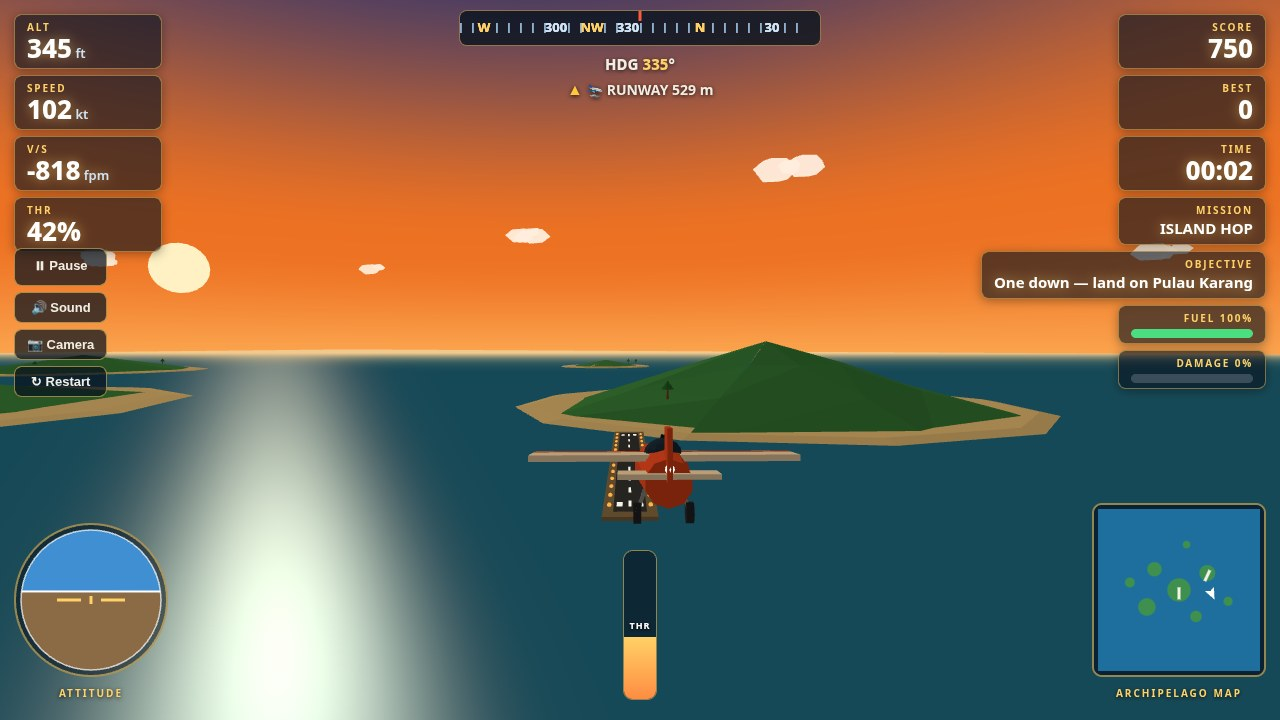
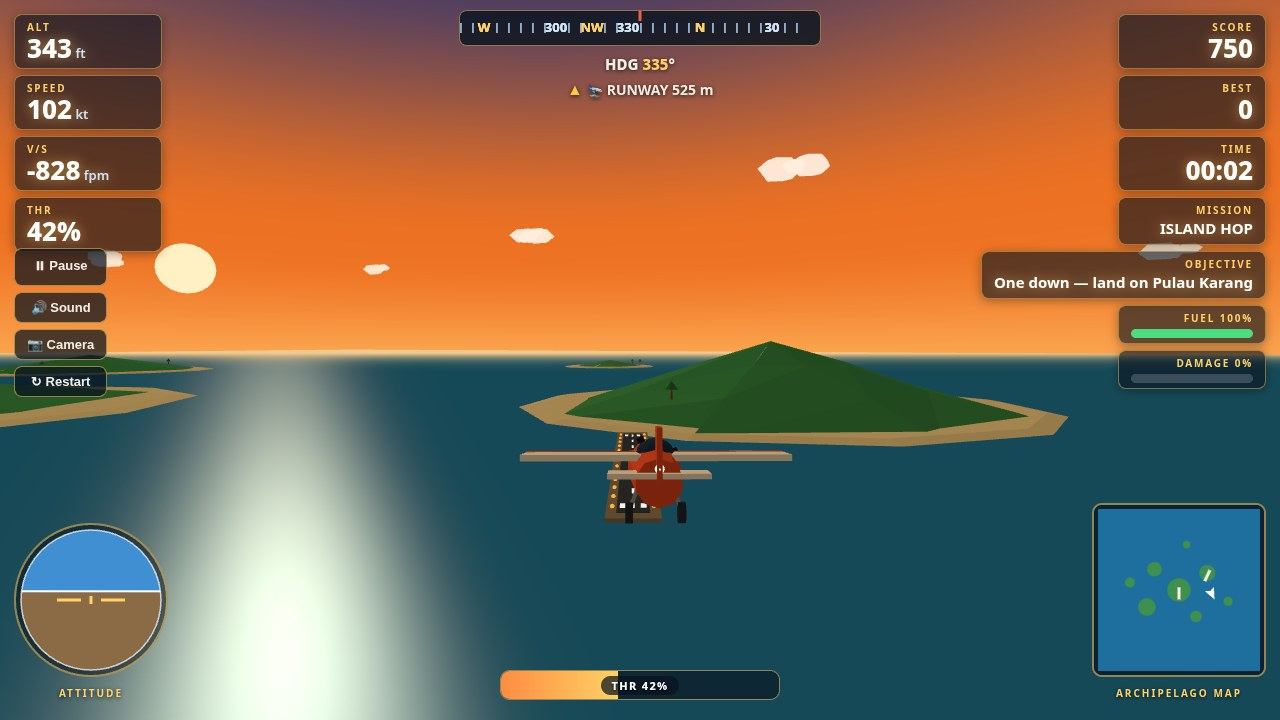
Landscape throttle bar: horizontal THR slider with live percent pill, drag axis switched to X

diff --git a/game/style.css b/game/style.css
@@ -46,12 +46,16 @@ body { font-family: system-ui, -apple-system, "Segoe UI", Roboto, sans-serif; co
    gauges above, the attitude dial below, and the aircraft in the centre. */
 .hud-buttons.hud-left-mid { position: absolute; left: 14px; top: 248px; pointer-events: auto; z-index: 6; }
 #throttle-slider {
-  position: relative; width: 34px; height: 150px; border-radius: 10px;
+  position: relative; width: 280px; height: 30px; border-radius: 10px;
   background: rgba(8, 18, 30, 0.62); border: 1px solid rgba(255, 209, 102, 0.55);
   cursor: pointer; overflow: hidden; touch-action: none;
 }
-#throttle-fill { position: absolute; bottom: 0; left: 0; width: 100%; height: 0%; background: linear-gradient(to top, #ff8c42, #ffd166); }
-#throttle-knob { position: absolute; inset: 0; display: flex; align-items: center; justify-content: center; font-size: 9px; font-weight: 800; letter-spacing: 0.1em; color: #fff; text-shadow: 0 1px 3px #000; }
+#throttle-fill { position: absolute; left: 0; top: 0; height: 100%; width: 0%; background: linear-gradient(to right, #ff8c42, #ffd166); }
+#throttle-knob { position: absolute; inset: 0; display: flex; align-items: center; justify-content: center; font-size: 11px; font-weight: 800; letter-spacing: 0.12em; color: #fff; text-shadow: 0 1px 3px #000; }
+/* Dark pill behind the label so "THR 68%" reads the same whether it sits
+   over the orange fill or the dark track (the fill edge runs through the
+   middle of the text at mid throttle). */
+#throttle-knob span { background: rgba(8, 18, 30, 0.72); border-radius: 999px; padding: 2px 10px; }
 .hud-buttons { display: flex; flex-direction: column; gap: 6px; }
 .hud-buttons button, .ghost-btn {
   pointer-events: auto; cursor: pointer; background: rgba(8, 18, 30, 0.72); color: #f2ede3;

diff --git a/game/src/hud.js b/game/src/hud.js
@@ -181,9 +181,11 @@ export function updateHud(hud, view) {
   if (compass) drawCompass(compass.getContext('2d'), readouts.headingDeg);
   drawHorizon(hud.horizonCtx, state.pitch, state.roll);
   drawMinimap(hud.mapCtx, state, rings, nextRingIndex, { x: 0, z: 180, headingDeg: 0 }, { x: 1500, z: -760, headingDeg: 25 });
-  // Throttle slider fill.
+  // Throttle slider fill, now horizontal (landscape): the fill grows from
+  // the left as throttle rises, and the knob reads THR + the live percent.
   const fill = $('throttle-fill');
-  if (fill) fill.style.height = `${state.throttle}%`;
+  if (fill) fill.style.width = `${clamp(state.throttle, 0, 100)}%`;
+  setText('throttle-knob-text', `THR ${Math.round(state.throttle)}%`);
 }
 
 // Big centre-screen banners (title, pause, game over, mission complete).

diff --git a/game/src/input.js b/game/src/input.js
@@ -65,7 +65,8 @@ export function bindInput(input, callbacks) {
   if (slider) {
     const setFromEvent = (event) => {
       const rect = slider.getBoundingClientRect();
-      const ratio = Math.min(1, Math.max(0, 1 - (event.clientY - rect.top) / rect.height));
+      // Horizontal slider: throttle rises from left (0%) to right (100%).
+      const ratio = Math.min(1, Math.max(0, (event.clientX - rect.left) / rect.width));
       input.mouseThrottle = Math.round(ratio * 100);
     };
     slider.addEventListener('pointerdown', (event) => {

diff --git a/game/index.html b/game/index.html
@@ -49,7 +49,7 @@
   </div>
 
   <div class="hud-bottom-center">
-    <div id="throttle-slider" title="Throttle — drag, or hold Shift / Ctrl"><div id="throttle-fill"></div><div id="throttle-knob">THR</div></div>
+    <div id="throttle-slider" title="Throttle — drag, or hold Shift / Ctrl"><div id="throttle-fill"></div><div id="throttle-knob"><span id="throttle-knob-text">THR</span></div></div>
   </div>
 
   <!-- Menu buttons live on the free left edge, mid-screen: the plane in the
